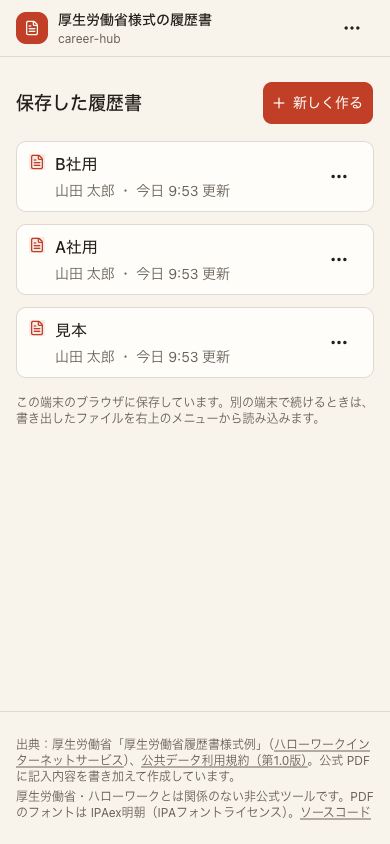
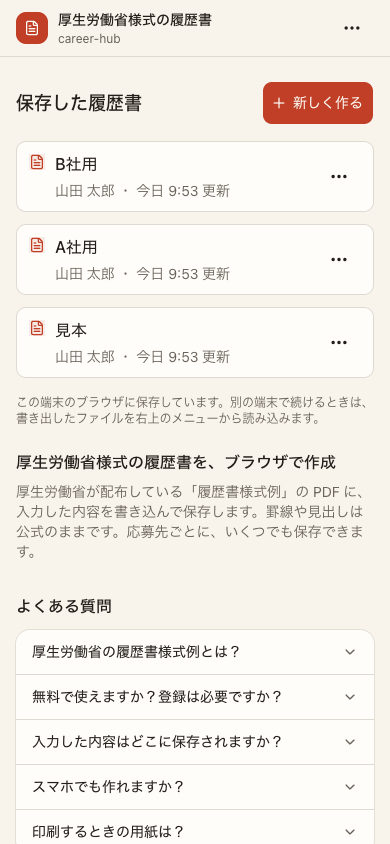
Add search and sharing metadata and indexable text to the home page
The home page's exported HTML had a title and description but little
else, since the list only renders once saved resumes are read in the
browser. It now carries a canonical URL, Open Graph and Twitter card
tags with a 1200x630 share image in the app's colours, and JSON-LD
describing a free web application. A short explanation of the tool
and five FAQ items sit below the list as plain HTML (native details
elements), so crawlers see real text, and the header title is the
page's h1.

robots.txt and sitemap.xml are generated for the home page; the
editor page is marked noindex because it only shows data stored in
each visitor's browser. The home title adds 無料で作成・PDF保存 for
search while still starting with 厚生労働省様式の履歴書. The site URL
comes from VERCEL_PROJECT_PRODUCTION_URL so a custom domain is picked
up automatically.

Changed region(s): [[0.0308, 0.7085, 0.9538, 1.0], [0.0308, 0.5237, 0.9231, 0.6777]]

diff --git a/web/src/components/about.tsx b/web/src/components/about.tsx
@@ -1,0 +1,41 @@
+import { ChevronDown } from "lucide-react";
+
+const FAQ = [
+  {
+    q: "厚生労働省の履歴書様式例とは？",
+    a: "2021年に厚生労働省が公表した履歴書の様式例です。性別欄は任意記入で、通勤時間や扶養家族の欄はありません。",
+  },
+  { q: "無料で使えますか？登録は必要ですか？", a: "無料で、登録も不要です。" },
+  {
+    q: "入力した内容はどこに保存されますか？",
+    a: "使っているブラウザの中だけに保存し、外部には送信しません。別の端末で続けるときは、書き出したファイルを読み込みます。",
+  },
+  { q: "スマホでも作れますか？", a: "入力から PDF の保存までスマホでできます。保存すると、LINE やメールで送ることもできます。" },
+  { q: "印刷するときの用紙は？", a: "A4（2枚）と A3（見開き1枚）のどちらでも保存できます。" },
+];
+
+/** トップの説明とよくある質問。保存内容を読む前の HTML にも入るので、検索にも使われる */
+export function About() {
+  return (
+    <section className="mx-auto w-full max-w-3xl px-4 pb-10 sm:px-6" aria-labelledby="about">
+      <h2 id="about" className="text-base font-semibold">
+        厚生労働省様式の履歴書を、ブラウザで作成
+      </h2>
+      <p className="mt-2 text-sm text-muted-foreground">
+        厚生労働省が配布している「履歴書様式例」の PDF に、入力した内容を書き込んで保存します。罫線や見出しは公式のままです。応募先ごとに、いくつでも保存できます。
+      </p>
+      <h2 className="mt-8 text-base font-semibold">よくある質問</h2>
+      <div className="mt-3 divide-y rounded-xl bg-card ring-1 ring-foreground/10">
+        {FAQ.map(({ q, a }) => (
+          <details key={q} className="group px-4">
+            <summary className="flex min-h-11 cursor-pointer list-none items-center justify-between gap-3 py-2 text-sm font-medium [&::-webkit-details-marker]:hidden">
+              {q}
+              <ChevronDown className="size-4 shrink-0 text-muted-foreground transition-transform group-open:rotate-180" aria-hidden />
+            </summary>
+            <p className="pb-3 text-sm text-muted-foreground">{a}</p>
+          </details>
+        ))}
+      </div>
+    </section>
+  );
+}

diff --git a/web/src/components/resume-list.tsx b/web/src/components/resume-list.tsx
@@ -92,7 +92,7 @@ function ResumeCard({ saved, onRename, onDelete }: { saved: Saved; onRename: () 
 }
 
 /** 保存した履歴書の一覧（トップページ） */
-export function ResumeList() {
+export function ResumeList({ children }: { children?: React.ReactNode }) {
   const loaded = useLoaded();
   const list = useResumeList();
   const router = useRouter();
@@ -167,7 +167,7 @@ export function ResumeList() {
         ) : (
           <div className="flex flex-col gap-4">
             <div className="flex items-center justify-between gap-3">
-              <h1 className="text-lg font-semibold">保存した履歴書</h1>
+              <h2 className="text-lg font-semibold">保存した履歴書</h2>
               <Button className="h-11 sm:h-9" onClick={() => create()}>
                 <Plus data-icon="inline-start" />
                 新しく作る
@@ -185,6 +185,7 @@ export function ResumeList() {
         )}
       </main>
 
+      {children}
       <SiteFooter />
 
       {renaming && <RenameSheet id={renaming.id} title={renaming.title} onClose={() => setRenaming(null)} />}

diff --git a/web/src/app/page.tsx b/web/src/app/page.tsx
@@ -1,5 +1,32 @@
+import type { Metadata } from "next";
+import { About } from "@/components/about";
 import { ResumeList } from "@/components/resume-list";
+import { SITE_DESCRIPTION, SITE_URL } from "@/lib/site";
+
+export const metadata: Metadata = { alternates: { canonical: "/" } };
+
+// 検索エンジンに、無料で使えるウェブアプリだと伝える
+const jsonLd = {
+  "@context": "https://schema.org",
+  "@type": "WebApplication",
+  name: "career-hub",
+  alternateName: "厚生労働省様式の履歴書",
+  url: `${SITE_URL}/`,
+  description: SITE_DESCRIPTION,
+  applicationCategory: "BusinessApplication",
+  operatingSystem: "Web",
+  inLanguage: "ja",
+  isAccessibleForFree: true,
+  offers: { "@type": "Offer", price: "0", priceCurrency: "JPY" },
+};
 
 export default function Page() {
-  return <ResumeList />;
+  return (
+    <>
+      <script type="application/ld+json" dangerouslySetInnerHTML={{ __html: JSON.stringify(jsonLd) }} />
+      <ResumeList>
+        <About />
+      </ResumeList>
+    </>
+  );
 }

diff --git a/web/src/app/layout.tsx b/web/src/app/layout.tsx
@@ -1,12 +1,15 @@
 import type { Metadata, Viewport } from "next";
 import { Toaster } from "@/components/ui/sonner";
+import { SITE_DESCRIPTION, SITE_TITLE, SITE_URL } from "@/lib/site";
 import "./globals.css";
 
 export const metadata: Metadata = {
-  title: "厚生労働省様式の履歴書｜career-hub",
-  description:
-    "厚生労働省の履歴書様式例どおりの履歴書を、ブラウザで入力するだけで PDF にできます。無料・登録不要で、入力内容は外に送信しません。",
+  metadataBase: new URL(SITE_URL),
+  title: { default: SITE_TITLE, template: "%s｜career-hub" },
+  description: SITE_DESCRIPTION,
   applicationName: "career-hub",
+  openGraph: { type: "website", locale: "ja_JP", siteName: "career-hub", url: "/", title: SITE_TITLE, description: SITE_DESCRIPTION },
+  twitter: { card: "summary_large_image", title: SITE_TITLE, description: SITE_DESCRIPTION },
 };
 
 export const viewport: Viewport = {

diff --git a/web/src/lib/site.ts b/web/src/lib/site.ts
@@ -1,0 +1,8 @@
+// 本番の URL（正規 URL・OGP・サイトマップで使う）。Vercel では本番のドメインが渡るので、独自ドメインにしても追従する
+export const SITE_URL = process.env.VERCEL_PROJECT_PRODUCTION_URL
+  ? `https://${process.env.VERCEL_PROJECT_PRODUCTION_URL}`
+  : "https://career-hub-one-dusky.vercel.app";
+
+export const SITE_TITLE = "厚生労働省様式の履歴書を無料で作成・PDF保存｜career-hub";
+export const SITE_DESCRIPTION =
+  "厚生労働省の履歴書様式例どおりの履歴書を、ブラウザで入力するだけで作成し、PDF で保存できます。無料・登録不要でスマホにも対応。入力内容は外部に送信しません。";

diff --git a/web/src/components/site.tsx b/web/src/components/site.tsx
@@ -9,7 +9,7 @@ export function Brand() {
         <FileText className="size-4" aria-hidden />
       </span>
       <div className="min-w-0 leading-tight">
-        <p className="truncate text-sm font-semibold">厚生労働省様式の履歴書</p>
+        <h1 className="truncate text-sm font-semibold">厚生労働省様式の履歴書</h1>
         <p className="truncate text-xs text-muted-foreground">career-hub</p>
       </div>
     </div>

diff --git a/web/src/app/sitemap.ts b/web/src/app/sitemap.ts
@@ -1,0 +1,9 @@
+import type { MetadataRoute } from "next";
+import { SITE_URL } from "@/lib/site";
+
+export const dynamic = "force-static";
+
+// 検索に出したいのはトップだけ（編集ページは各自のブラウザの中身を開くだけなので載せない）
+export default function sitemap(): MetadataRoute.Sitemap {
+  return [{ url: `${SITE_URL}/`, lastModified: new Date(), changeFrequency: "monthly", priority: 1 }];
+}

diff --git a/web/src/app/edit/page.tsx b/web/src/app/edit/page.tsx
@@ -1,5 +1,9 @@
+import type { Metadata } from "next";
 import { Suspense } from "react";
 import { ResumeApp } from "@/components/resume-app";
+
+// 中身は各自のブラウザにしかないので、検索には出さない
+export const metadata: Metadata = { title: "履歴書を編集", robots: { index: false } };
 
 export default function Page() {
   // ?id= はブラウザで読むので、開いてから描画する

diff --git a/web/src/app/robots.ts b/web/src/app/robots.ts
@@ -1,0 +1,8 @@
+import type { MetadataRoute } from "next";
+import { SITE_URL } from "@/lib/site";
+
+export const dynamic = "force-static";
+
+export default function robots(): MetadataRoute.Robots {
+  return { rules: { userAgent: "*", allow: "/" }, sitemap: `${SITE_URL}/sitemap.xml` };
+}
